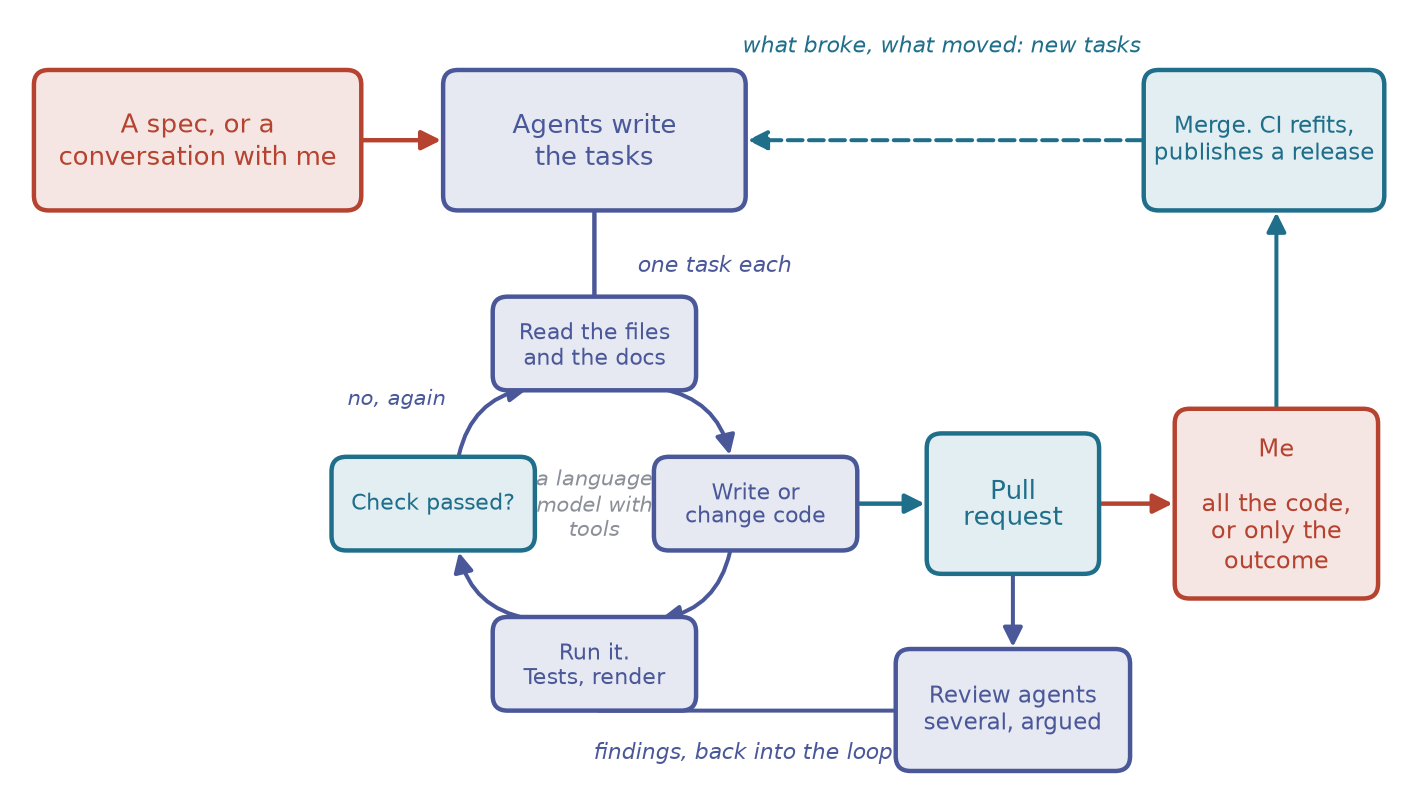
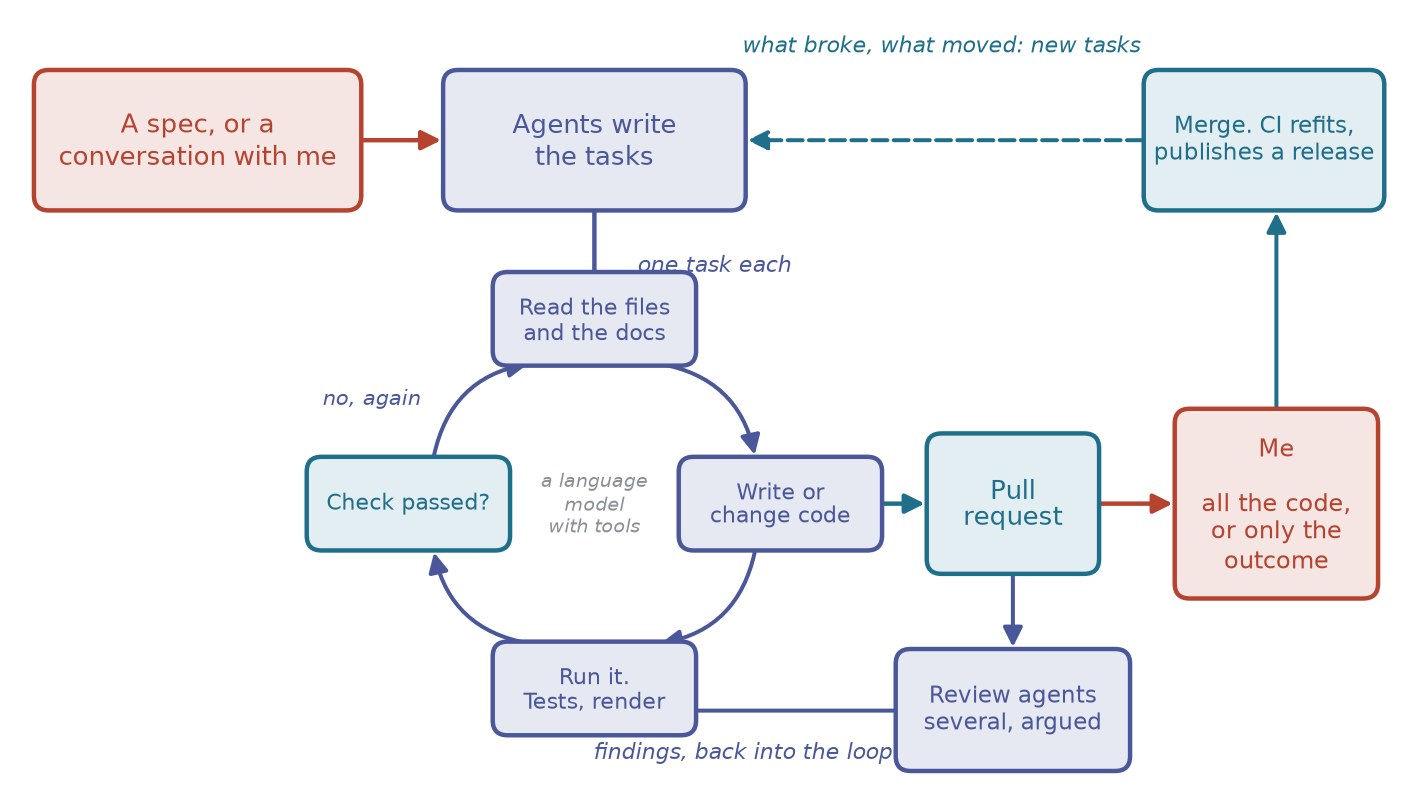
fix: the agent loop label no longer runs under the boxes

Changed region(s): [[0.2493, 0.3083, 0.5609, 0.5549], [0.2181, 0.5549, 0.6544, 0.6782], [0.2805, 0.6782, 0.5297, 0.9248]]

diff --git a/scripts/keynote-schematics.py b/scripts/keynote-schematics.py
@@ -439,7 +439,7 @@ def inner_loop(ax, cx, cy, r=1.35, fs=10.5):
             ((cx - r + 0.2, cy + 0.36), (cx - 0.5, cy + r - 0.36))]
     for p, q in arcs:
         arrow(ax, p, q, colour=SLATE, lw=1.8, rad=-0.35)
-    label(ax, cx, cy, "a language\nmodel with\ntools", colour=GREY, fs=9.5,
+    label(ax, cx, cy, "a language\nmodel\nwith tools", colour=GREY, fs=8.5,
           style="italic")
     label(ax, cx - r + 0.1, cy + 0.85, "no, again", colour=SLATE, fs=9.5,
           style="italic", ha="right")
@@ -449,7 +449,7 @@ def inner_loop(ax, cx, cy, r=1.35, fs=10.5):
 def agent_1():
     fig, ax = canvas(11, 4.6)
     box(ax, 0.1, 1.85, 1.9, 0.9, "You,\na prompt", colour=BRICK, fs=12.5)
-    inner_loop(ax, 5.3, 2.3, r=1.3)
+    inner_loop(ax, 5.3, 2.3, r=1.5)
     arrow(ax, (2.0, 2.3), (3.2, 2.3), colour=BRICK, lw=2)
     box(ax, 8.3, 1.75, 1.3, 1.1, "Pull\nrequest", colour=TEAL, fs=11.5)
     arrow(ax, (7.4, 2.3), (8.3, 2.3), colour=TEAL, lw=2)
@@ -472,7 +472,7 @@ def agent_2():
     label(ax, 4.95, 4.25, "one task each", colour=SLATE, fs=10,
           style="italic", ha="left")
     # Middle: the inner loop.
-    inner_loop(ax, 4.6, 2.3, r=1.3, fs=10)
+    inner_loop(ax, 4.6, 2.3, r=1.5, fs=10)
     box(ax, 7.3, 1.75, 1.35, 1.1, "Pull\nrequest", colour=TEAL, fs=11.5)
     arrow(ax, (6.7, 2.3), (7.3, 2.3), colour=TEAL, lw=2)
     # Review agents feed findings back.
